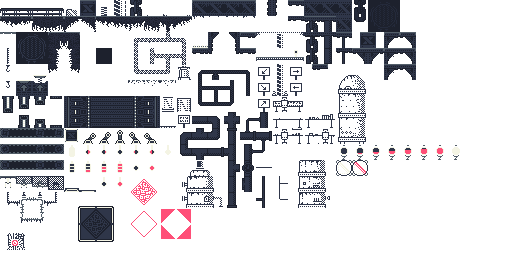
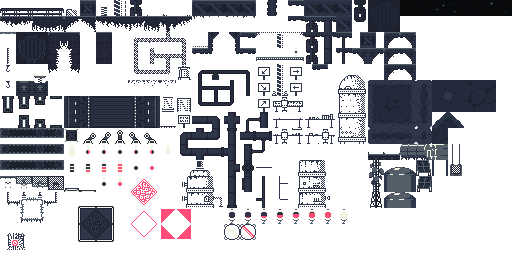
lever entity

diff --git a/src/entities/lever.c b/src/entities/lever.c
@@ -1,0 +1,80 @@
+#include "../main.h"
+
+EDITOR_SIZE(16, 16);
+EDITOR_RESIZE(false);
+EDITOR_COLOR(255, 229, 123);
+
+static anim_def_t *anim_lever_off;
+static anim_def_t *anim_lever_on;
+static anim_def_t *anim_lever_switching_on;
+static anim_def_t *anim_lever_switching_off;
+
+static void load(void) {
+	image_t *tiles = image("assets/tiles/tiles.qoi");
+
+	anim_lever_off = anim_def(tiles, vec2i(16, 16), 1.0, {262});
+	anim_lever_on = anim_def(tiles, vec2i(16, 16), 1.0, {265});
+}
+
+
+static void draw(entity_t *self) {
+	if (self->lever.is_on) {
+		self->anim = anim(anim_lever_on);
+	} else {
+		self->anim = anim(anim_lever_off);
+	}
+}
+
+
+static void init(entity_t *self) {
+	self->lever.is_on = false;
+	self->check_against = ENTITY_GROUP_PLAYER;
+	draw(self);
+}
+
+
+static void settings(entity_t *self, json_t *settings) {
+	self->lever.targets = entities_from_json_names(json_value_for_key(settings, "target"));
+	json_t *is_on = json_value_for_key(settings, "is_on");
+	self->lever.is_on = is_on ? json_bool(is_on) : false;
+	json_t *delay = json_value_for_key(settings, "delay");
+	self->lever.delay = delay ? json_number(delay) : -1;
+	self->lever.can_fire = true;
+}
+
+
+static void update(entity_t *self) {
+	draw(self);
+}
+
+
+static void touch(entity_t *self, entity_t *other) {
+	if (input_released(A_SHOOT)) {
+		self->lever.is_on = !self->lever.is_on;
+		printf("lever switched to %d\n", self->lever.is_on);
+		draw(self);
+	} else {
+		return;
+	};
+
+	for (int i = 0; i < self->lever.targets.len; i++) {
+		entity_t *target = entity_by_ref(self->lever.targets.entities[i]);
+		if (target) {
+			entity_trigger(target, other);
+		}
+	}
+
+	if (self->lever.delay == -1) {
+		self->lever.can_fire = false;
+	} else {
+		self->lever.delay_time = self->lever.delay;
+	}
+}
+
+entity_vtab_t entity_vtab_lever = {
+    .load = load,
+    .init = init,
+    .settings = settings,
+    .update = update,
+    .touch = touch,
+};

diff --git a/src/high_impact.h b/src/high_impact.h
@@ -81,10 +81,11 @@
 
 #define ENTITY_TYPES(TYPE)                       \
 	TYPE(ENTITY_TYPE_PLAYER, player)             \
+	TYPE(ENTITY_TYPE_PROJECTILE, projectile)     \
 	TYPE(ENTITY_TYPE_TRIGGER, trigger)           \
+	TYPE(ENTITY_TYPE_LEVER, lever)               \
 	TYPE(ENTITY_TYPE_PARTICLE, particle)         \
 	TYPE(ENTITY_TYPE_LEVEL_CHANGE, level_change) \
-	TYPE(ENTITY_TYPE_PROJECTILE, projectile)     \
 	TYPE(ENTITY_TYPE_VOID, void)
 
 // All entity types share the same struct. Calling ENTITY_DEFINE() defines that
@@ -103,7 +104,6 @@ ENTITY_DEFINE(
 		    bool has_hit;
 		    bool flip;
 	    } projectile;
-
 
 	    struct {
 		    float high_jump_time;
@@ -124,6 +124,15 @@ ENTITY_DEFINE(
 		    float delay_time;
 		    bool can_fire;
 	    } trigger;
+
+	    struct {
+		    entity_list_t targets;
+		    float delay;
+		    float delay_time;
+		    bool can_fire;
+		    bool is_on;
+		    bool is_touched;
+	    } lever;
     };);
 
 // The entity_message_t is used with the entity_message() function. You can

diff --git a/src/entities/trigger.c b/src/entities/trigger.c
@@ -5,6 +5,7 @@ EDITOR_RESIZE(true);
 EDITOR_COLOR(255, 229, 14);
 
 static void settings(entity_t *self, json_t *settings) {
+	printf("settings trigger\n");
 	self->trigger.targets = entities_from_json_names(json_value_for_key(settings, "target"));
 	self->size.x = json_number(json_value_for_key(json_value_for_key(settings, "size"), "x"));
 	self->size.y = json_number(json_value_for_key(json_value_for_key(settings, "size"), "y"));
@@ -35,6 +36,7 @@ static void update(entity_t *self) {
 }
 
 static void touch(entity_t *self, entity_t *other) {
+	printf("trigger touched\n");
 	if (!self->trigger.can_fire || self->trigger.delay_time > 0) {
 		return;
 	}

diff --git a/src/main.c b/src/main.c
@@ -30,7 +30,7 @@ void main_init(void) {
 	sound_set_global_volume(0.75);
 
 #if DBG_SKIP_TITLE
-	game_set_level_path("assets/levels/01-wasteland.json");
+	game_set_level_path("assets/levels/01-wasteland2.json");
 	engine_set_scene(&scene_game);
 #else
 	engine_set_scene(&scene_title);
